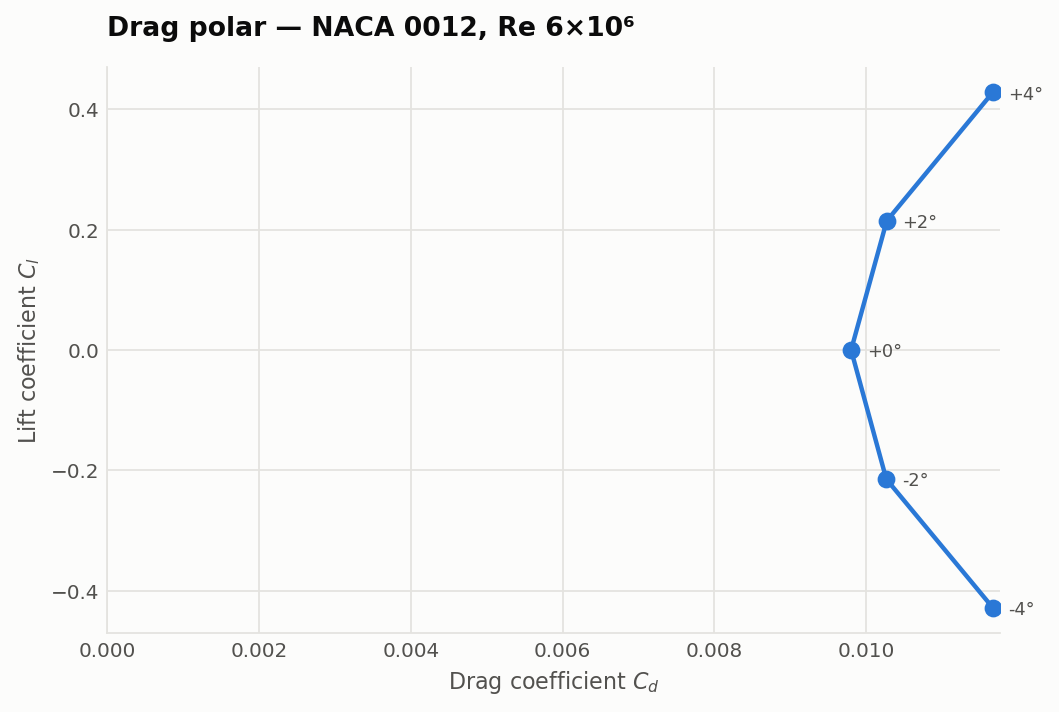
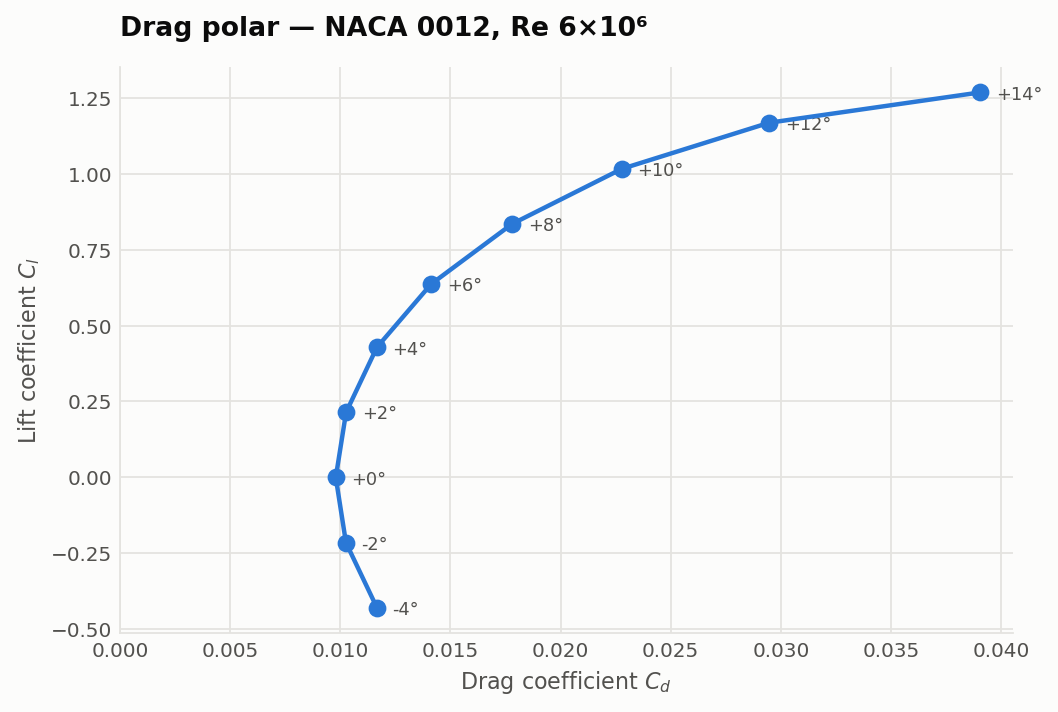
Complete the alpha sweep: ten angles, lift curve and polars
Lift-curve slope 0.10710 per degree over -4 to +4, which is 97.7% of thin
aerofoil theory's 2*pi, with a zero-lift angle of +0.0001 degrees and a
best L/D of 46.9 at +8. Sitting a few percent below 2*pi is the expected
result for a real 12% section through thickness and viscous decambering;
landing above it would have meant something was wrong.

The section is symmetric, so the sweep validates itself at every matched
pair: Cl(-4) = -0.4282 against +0.4282, Cl(-2) = -0.2147 against +0.2146,
Cd agreeing to five decimals at both. Cd at zero incidence is 0.00980,
matching the L3 value from the mesh study exactly.

The fit range turned out to matter more than expected, and the zero-lift
angle is what settles it. Widening from +4 to +10 walks the slope from
0.10710 to 0.10401 — 97.7% down to 94.8% of 2*pi — and any of those could
have been quoted. But it also drags the fitted zero-lift angle from
+0.0001 to +0.0121 degrees, and symmetry requires that to be exactly
zero. The drift is not physics; it is the fit reporting that it has
swallowed points which are no longer on a straight line. So the range is
chosen by a diagnostic rather than by taste, and the default is now the
strict linear range.

Departure from that fit is smooth and monotone: -1.0% at +6 through
-15.5% at +14, which is decambering rather than numerical drift.

Three things the sweep does not show, all stated in the README rather
than left to be assumed. Stall: Cl is still rising at +14 and steady RANS
[…]

diff --git a/polar.py b/polar.py
@@ -28,7 +28,13 @@ import matplotlib.pyplot as plt  # noqa: E402
 HERE = Path(__file__).parent
 RESULTS = HERE / "validation" / "alpha-sweep.json"
 TWO_PI_PER_DEG = 2.0 * math.pi * math.pi / 180.0     # 0.1097 per degree
-LINEAR_RANGE = (-4.0, 8.0)
+# -4..+4 only. Widening to +8 pulls the slope from 0.1071 to 0.1057 and drags
+# the fitted zero-lift angle from +0.0001 to +0.0119 degrees. Symmetry requires
+# that angle to be exactly zero, so its drift is not a physical result — it is
+# the fit reporting that it has swallowed points which are no longer on a
+# straight line. The zero-lift angle is therefore the diagnostic for choosing
+# the range, not a free output.
+LINEAR_RANGE = (-4.0, 4.0)
 
 THEMES = {
     "light": {"surface": "#fcfcfb", "ink": "#0b0b0b", "ink_muted": "#52514e",
@@ -150,6 +156,23 @@ def main() -> None:
         print(f"{p['alpha']:>+7.1f} {p['cl']:>+9.4f} {p['cd']:>9.5f} "
               f"{p['cl']/p['cd']:>8.1f} {p['y_plus_max']:>7.2f} "
               f"{p['cl_drift']:>9.1e}")
+
+    print("\nfit-range sensitivity (zero-lift angle must be 0 by symmetry):")
+    for lo, hi in ((-4.0, 4.0), (-4.0, 6.0), (-4.0, 8.0), (-4.0, 10.0)):
+        f = lift_slope(pts, lo, hi)
+        if f:
+            print(f"  {lo:+.0f}..{hi:+.0f}  slope {f['slope_per_deg']:.5f}/deg  "
+                  f"{f['vs_thin_aerofoil']*100:5.1f}% of 2π   "
+                  f"α₀ {f['alpha_zero_lift']:+.4f}°")
+
+    strict = lift_slope(pts, *LINEAR_RANGE)
+    if strict:
+        print("\ndeparture from the linear fit:")
+        for q in pts:
+            if q["alpha"] > LINEAR_RANGE[1]:
+                lin = strict["slope_per_deg"] * q["alpha"] + strict["cl_at_zero"]
+                print(f"  α={q['alpha']:+5.1f}  linear {lin:.4f}  "
+                      f"computed {q['cl']:.4f}  {100*(q['cl']-lin)/lin:+.1f}%")
 
     fit = lift_slope(pts)
     if fit:

diff --git a/README.md b/README.md
@@ -112,6 +112,84 @@ and about 8% is a reasonable size for that difference at this Reynolds number.
 Confirming it needs a transition-sensitive model — `kOmegaSSTLM` is the obvious
 next experiment — rather than being asserted here.
 
+## Alpha sweep
+
+Ten angles from −4° to +14° on the L3 mesh, incidence applied by rotating the
+freestream so every point sits on the identical grid.
+
+| α | Cl | Cd | Cl/Cd | y+ max | Cl drift |
+|---|---|---|---|---|---|
+| −4° | −0.4282 | 0.01166 | −36.7 | 1.57 | 4.8e-06 |
+| −2° | −0.2147 | 0.01026 | −20.9 | 1.28 | 1.1e-05 |
+| 0° | +0.0000 | 0.00980 | 0.0 | 0.95 | 8.0e-06 |
+| +2° | +0.2146 | 0.01027 | 20.9 | 1.27 | 8.7e-06 |
+| +4° | +0.4282 | 0.01167 | 36.7 | 1.57 | 5.3e-06 |
+| +6° | +0.6363 | 0.01413 | 45.0 | 2.02 | 1.1e-05 |
+| +8° | +0.8343 | 0.01780 | **46.9** | 2.36 | 1.1e-04 |
+| +10° | +1.0155 | 0.02278 | 44.6 | 2.71 | 1.5e-05 |
+| +12° | +1.1674 | 0.02947 | 39.6 | 3.06 | 3.9e-05 |
+| +14° | +1.2673 | 0.03905 | 32.5 | 3.34 | 1.2e-04 |
+
+![Lift curve](validation/lift-curve.png)
+
+| | |
+|---|---|
+| Lift-curve slope, −4..+4° | **0.10710 /deg** |
+| Thin aerofoil theory, 2π | 0.10966 /deg |
+| Ratio | **97.7%** |
+| Zero-lift angle | **+0.0001°** |
+| Best L/D | **46.9 at +8°** |
+
+97.7% is the expected answer rather than a near miss: a real 12% section sits a
+few percent below 2π through thickness and viscous decambering. Landing *above*
+2π would have meant something was wrong.
+
+### The section checks itself
+
+It is symmetric, so the sweep carries its own validation and passes it at every
+matched pair — Cl(−4°) = −0.4282 against +0.4282, Cl(−2°) = −0.2147 against
++0.2146, with Cd agreeing to five decimals. That exercises the mesh under real
+loading on both sides, which the zero-incidence case alone does not. Cd at 0° is
+0.00980, matching the L3 value from the mesh study exactly.
+
+### Choosing the fit range, and why the zero-lift angle decides it
+
+| fit range | slope | % of 2π | α₀ |
+|---|---|---|---|
+| −4..+4 | 0.10710 | 97.7% | +0.0001° |
+| −4..+6 | 0.10665 | 97.3% | +0.0057° |
+| −4..+8 | 0.10567 | 96.4% | +0.0119° |
+| −4..+10 | 0.10401 | 94.8% | +0.0121° |
+
+A wider range gives a lower slope, and any of those numbers could be quoted. The
+zero-lift angle settles it: symmetry requires it to be **exactly zero**, so its
+drift from +0.0001° to +0.0121° is not physics, it is the fit reporting that it
+has swallowed points which are no longer on a straight line. The diagnostic
+chooses the range rather than the range being a matter of taste.
+
+Departure from that fit is smooth and monotone — −1.0% at +6°, −2.6% at +8°,
+−5.2% at +10°, −9.2% at +12°, −15.5% at +14° — which is decambering as the
+boundary layer thickens, not numerical drift.
+
+### What this sweep does not show
+
+**Stall.** Cl is still rising at +14° (1.2673) and no maximum is captured. A real
+NACA 0012 stalls near 16° with Cl_max about 1.6. Steady RANS cannot resolve the
+separated flow that produces stall, so extending the sweep would produce numbers
+rather than answers.
+
+**Equal confidence at every angle.** y+ max climbs from 0.95 at 0° to 3.34 at
++14° as the aerofoil loads up. The mesh was sized for y+ ≈ 1 at *zero*
+incidence. SST's ω wall treatment blends up to roughly y+ 3, so +12° and +14°
+sit at or past that edge and deserve less weight than the linear-range points.
+Resolving the loaded condition properly needs a mesh sized for it.
+
+**A comparison with experiment.** The reference plotted here is thin aerofoil
+theory, which is exact analysis. Published points from Abbott & Von Doenhoff are
+deliberately not hard-coded — a curve reconstructed from memory looks
+authoritative and cannot be checked. Digitise the source before presenting this
+as validation against wind tunnel data.
+
 ## Core concepts
 
 - OpenFOAM case hierarchy and dictionary configuration
@@ -153,7 +231,8 @@ case/
 - [ ] Residuals converged, and force coefficients flat — residuals alone are
       not convergence
 - [x] Mesh independence across four refinements, with GCI
-- [ ] Cl vs alpha plotted against published data
+- [x] Cl vs alpha, drag polar and efficiency across −4..+14°
+- [ ] Comparison against digitised Abbott & Von Doenhoff data
 - [ ] Cd vs alpha plotted against published data, with the discrepancy
       discussed honestly
 
@@ -200,5 +279,6 @@ not to be the cause of the asymmetry above — blockMesh collapses the duplicate
 
 | Date | What was done |
 |---|---|
+| 2026-08-20 | Alpha sweep, ten angles on the L3 mesh. Lift-curve slope 0.1071/deg, 97.7% of 2π, zero-lift angle +0.0001°. Best L/D 46.9 at +8°. The fit range turned out to matter: widening it to +8 drops the slope to 0.1057 and drags the zero-lift angle to +0.0119°, which symmetry says cannot be physical — so the zero-lift angle is the diagnostic that picks the range. No stall captured; y+ reaches 3.34 by +14°, past where the wall treatment blends cleanly. |
 | 2026-08-19 | Mesh independence study: four levels, 7.5k to 85k cells, refining wall spacing with everything else so Richardson applies. Observed order 2.24, extrapolated Cd 0.008645, GCI 6.4%. The three coarsest levels alone gave p=1.31 and an extrapolation on the opposite side of the published value — a good reminder that three grids are the method's minimum, not proof of asymptotic behaviour. |
 | 2026-08-19 | OpenFOAM v2512 running natively on arm64 under colima. `src/cgrid.py` generates a 6-block structured C-grid — six because blockMesh identifies an edge by its vertex pair, so the whole upper and whole lower surface would both be edge (LE, TE) and only one can exist; splitting each surface at mid-chord gives every curved edge a unique pair. `src/case.py` generates fields, properties and solver control from Re and alpha. y+ tuned to ~1 by solving the geometric series for the radial grading. Found the gradient limiter breaking symmetry. 24 tests. |
